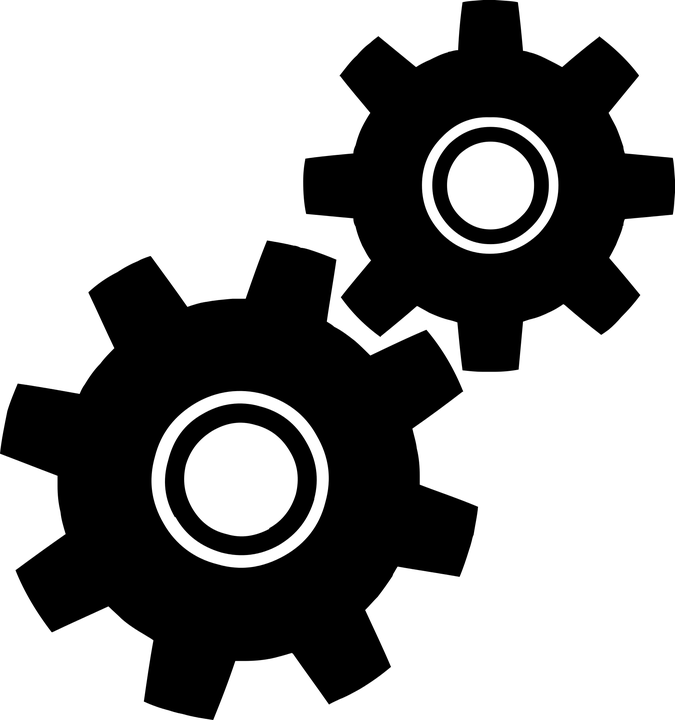
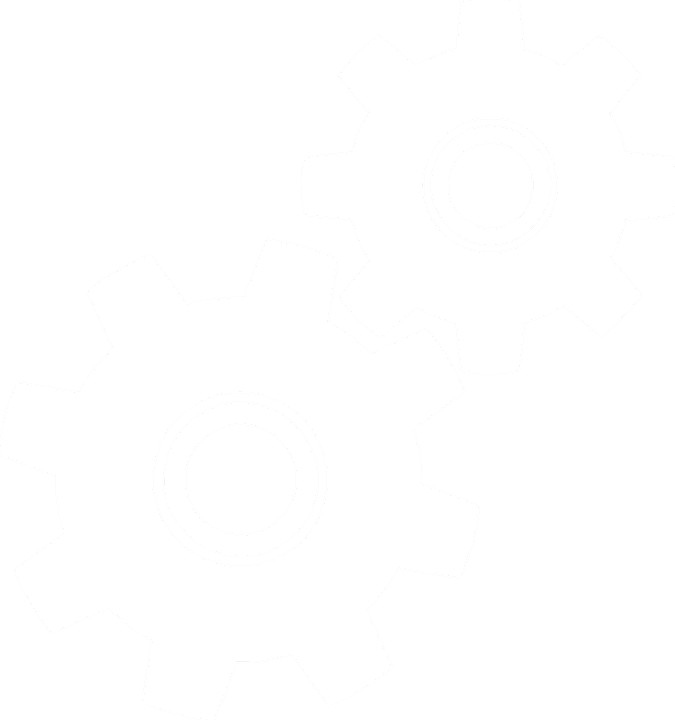
add pictos on redux basics

diff --git a/talk/resources/content.md b/talk/resources/content.md
@@ -40,33 +40,40 @@ function withVAT(value) {
 ///
 ### illustration du principe :
 ### le Mölkky
+<!-- .slide: class="only-image" -->
+![initial state](resources/initialState.jpg)
+![new state](resources/newState.jpg)
+
 Note: rappeler les règles brièvement
 
 ~~~
 #### state
-<!-- .slide: class="only-image" -->
-![initialState](resources/initialState.jpg)
-![initialState](resources/newState.jpg)
-
-Note: mettre image SVG des quilles + score des joueurs + nb de ratés
-    (_7)(_8)(_9)                Alice:  { score: 0, ratés: 0 }
-  (_5)(11)(12)(_6)              Bob:    { score: 0, ratés: 0 }
+📄 <!-- .element: class="slide-icon" -->
+```
+    (_7)(_8)(_9)            Alice:  { score: 0, ratés: 0 }
+  (_5)(11)(12)(_6)          Bob:    { score: 0, ratés: 0 }
     (_3)(10)(_4)
       (_1)(_2)
-
-                (_4)
- (11)       (_2)
-    (_7) (_8)     (_9)          Alice: { score: 26, ratés: 0 }
-  (_5)  (12)   (_6)             Bob: { score: 12, ratés: 2 }
-    (_3)    (10)
-      (_1)
-
+```
+```
+      (_9)                  Alice:  { score: 26, ratés: 0 }
+ (_2)       (_8)            Bob:    { score: 12, ratés: 2 }
+               (12) 
+                 (_4) 
+                 (_5)
+			   
+    (_7) 
+ (_3)	(11)    (_6)
+          (10)   (_4)
+```
 ~~~
 #### action
+![icon](resources/throw.png)<!-- .element: class="slide-icon" -->
 ![action](resources/action.jpg)
 
 ~~~
 #### reducer
+![throw](resources/gears.png)<!-- .element: class="slide-icon" -->
 ![reducer](resources/gears.jpg)
 
 ~~~
